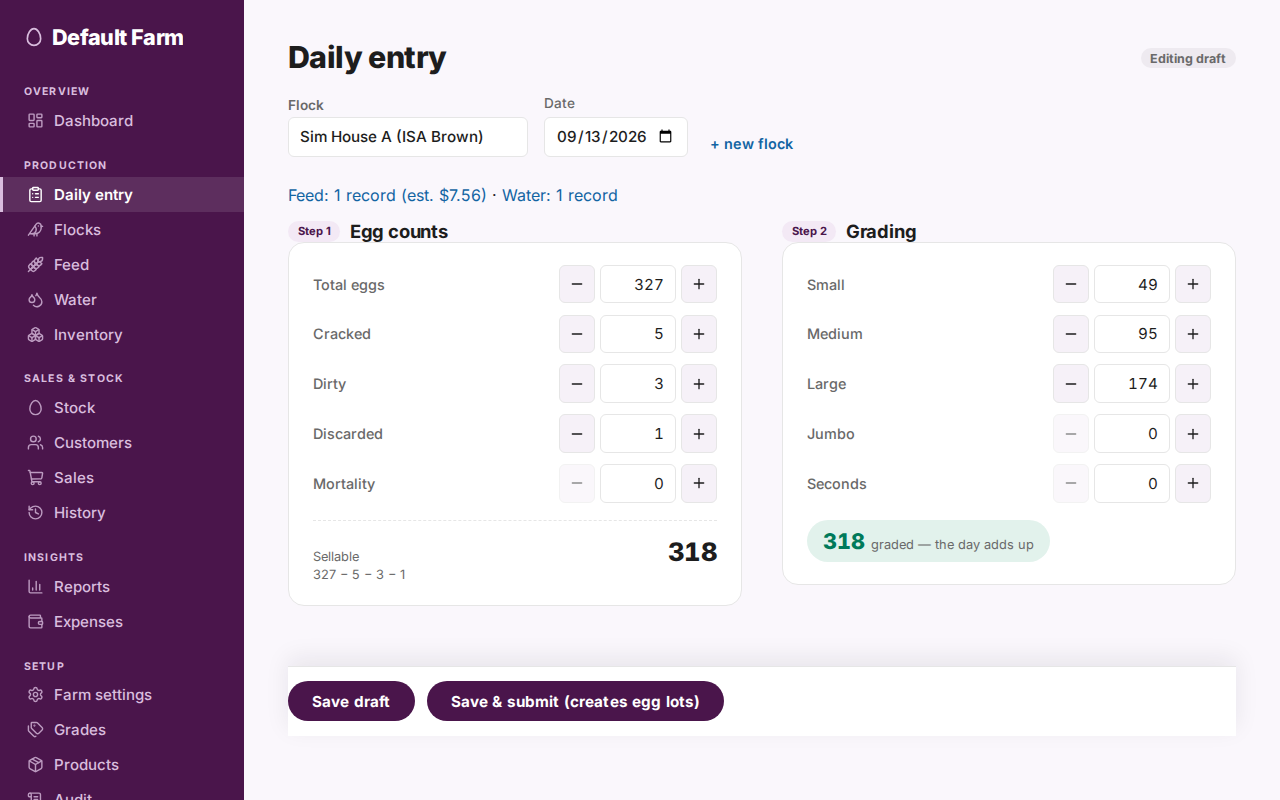
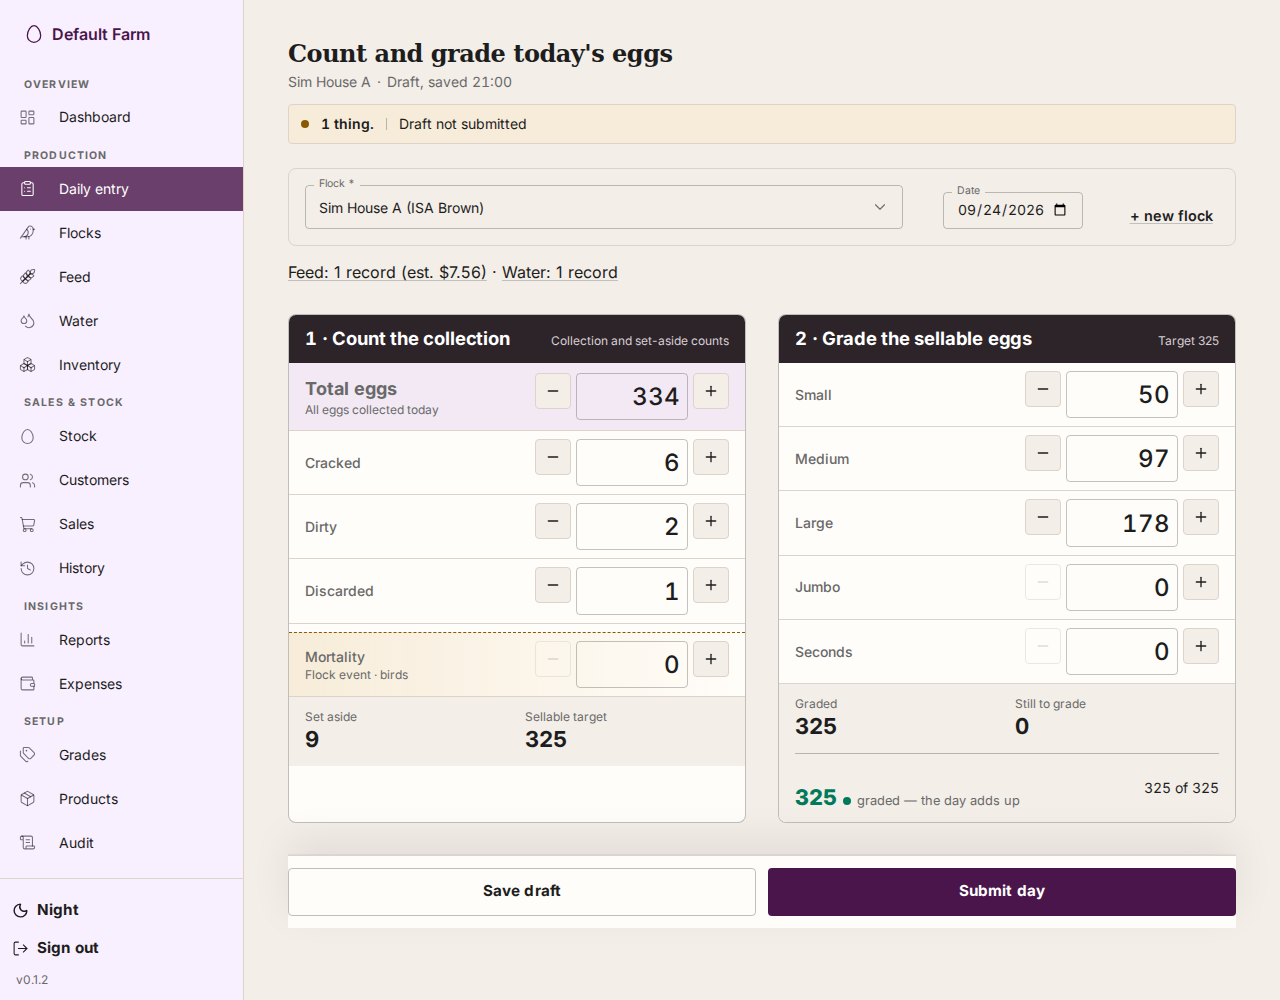
docs: recapture README screenshots after SPA revamp

diff --git a/tools/simulation/ui/playwright.screenshots.config.ts b/tools/simulation/ui/playwright.screenshots.config.ts
@@ -52,9 +52,7 @@ export default defineConfig({
   projects: [
     {
       name: "chromium",
-      // The dashboard capture runs in its own project below, at a taller
-      // frame (#660) — excluded here so this project's three images stay
-      // byte-identical to before.
+      // The dashboard uses its own taller viewport below.
       grepInvert: /dashboard — the morning view/,
       use: {
         ...devices["Desktop Chrome"],
@@ -64,18 +62,11 @@ export default defineConfig({
         // project's `use` beats the top-level one. Setting the frame above the
         // spread silently captures at the device's size instead of this one.
         //
-        // A fixed frame means a refreshed image differs from its predecessor
-        // only where the app changed. 1280x800 is the widest that still reads
-        // at GitHub's rendered README width without shrinking the type to
-        // noise.
+        // The taller frame keeps the daily entry totals and Reports money
+        // summary above the fold after the #920 recapture.
         //
-        // Scale 1, measured rather than assumed: at scale 2 the three images
-        // are 910 KB, at scale 1 they are 382 KB, and GitHub renders a README
-        // image into roughly 890 CSS pixels — so a 1280-wide capture still has
-        // ~1.4x the pixels of its slot and stays sharp on a HiDPI display.
-        // Every regeneration adds its bytes to git history permanently, which
-        // is what makes the 2.4x worth avoiding.
-        viewport: { width: 1280, height: 800 },
+        // Scale 1 keeps the committed PNGs at their CSS pixel size.
+        viewport: { width: 1280, height: 1000 },
         deviceScaleFactor: 1,
 
         launchOptions: executablePath ? { executablePath } : {},
@@ -83,25 +74,12 @@ export default defineConfig({
     },
     {
       name: "chromium-dashboard",
-      // #660: the 1280x800 frame showed only the alarm-state tile grid — the
-      // 14-day trend, stock, and recent-sales panels fell below the fold, so
-      // this capture got its own project at 1280x1180.
-      //
-      // WHAT DECIDES THAT NUMBER HAS CHANGED, and the height is no longer
-      // shrinkable to fit the content. Since the capture moved to the
-      // demo-seeded README farm, its main column ends at 700px — two tiles
-      // instead of twelve — and there is visible empty page below it. The
-      // SIDEBAR is what holds the frame open now: signed in as an Owner every
-      // destination is offered, and measured against the rendered page that
-      // column's own content ends at 1164px with the footer pinned to the
-      // viewport bottom. Anything shorter clips the navigation mid-list and
-      // overlaps it with Night/Sign out, which looks broken in a way the empty
-      // space does not. Re-measure before changing it; do not infer it from the
-      // main column.
+      // #920: Morning collection, stock, recent orders, and the Lay rate
+      // KPI all fit in this 1:1 frame after the dashboard redesign.
       grep: /dashboard — the morning view/,
       use: {
         ...devices["Desktop Chrome"],
-        viewport: { width: 1280, height: 1180 },
+        viewport: { width: 1280, height: 1300 },
         deviceScaleFactor: 1,
         launchOptions: executablePath ? { executablePath } : {},
       },

diff --git a/tools/simulation/ui/specs-screenshots/screenshots.spec.ts b/tools/simulation/ui/specs-screenshots/screenshots.spec.ts
@@ -1,6 +1,6 @@
 // tools/simulation/ui/specs-screenshots/screenshots.spec.ts — #549.
 //
-// Captures the three images the root README embeds, from the REAL built SPA
+// Captures the four images the root README embeds, from the REAL built SPA
 // over the #243 simulation fixture. Run it deliberately:
 //
 //     npm run screenshots        # from tools/simulation/ui, with the sim stack up
@@ -8,7 +8,7 @@
 // ================== THE STALENESS CONTRACT ==================
 //
 // These images are DOCUMENTATION ARTEFACTS, not test baselines, and **nothing
-// enforces that they match the current UI**. A change to any of the three
+// enforces that they match the current UI**. A change to any of the four
 // screens below silently invalidates them; a reviewer looking at a stale
 // screenshot cannot tell. The honest mitigation is the one this file can
 // actually keep: the capture is scripted, so refreshing is one command rather
@@ -203,6 +203,7 @@ test.describe("README screenshots", () => {
 
   test("reports — production and money over the seeded period", async ({ page, signIn, farm }) => {
     await signIn(castMember("Owner"));
+    await page.setViewportSize({ width: 1280, height: 1100 });
     await page.goto("/reports");
 
     // The default range ends TODAY, and the fixture's most recent days are
@@ -239,7 +240,8 @@ test.describe("README screenshots", () => {
   });
 
   test("sales — orders across their lifecycle", async ({ page, signIn }) => {
-    await signIn(castMember("Sales"));
+    await signIn(readmeFarmOwner());
+    await page.setViewportSize({ width: 1280, height: 800 });
     await page.goto("/sales");
 
     await expect(page.getByRole("heading", { name: tEn("sales:ordersHeading") })).toBeVisible();

diff --git a/README.md b/README.md
@@ -9,9 +9,15 @@ production, track egg lots from the hen through to the sale with full
 traceability, block medication-restricted lots, manage sales and customers, and
 see the numbers that matter (hen-day rate, saleable %, stock on hand).
 
-![The dashboard: today's capture-status tiles by flock, a 14-day production trend, stock on hand by grade, and recent sales orders](docs/images/dashboard.png)
+The Dashboard brings the morning brief, collection status, stock by grade,
+recent orders, and the Lay rate trend onto one screen.
 
-![The daily entry screen: egg counts and grading for one flock on one day, with the sellable total derived from them](docs/images/daily-entry.png)
+![Meadowlark Dashboard with a morning brief, collection status for two houses, stock by grade, recent orders, and a 14-day Lay rate chart](docs/images/dashboard.png)
+
+Daily entry separates collection and grading counts for one flock and day. It
+shows the sellable target and whether the graded count balances.
+
+![Daily entry for Sim House A with collection and grading counts, a sellable target, and Save draft and Submit day actions](docs/images/daily-entry.png)
 
 - **Backend:** C# / .NET 10 (ASP.NET Core minimal APIs) · **Database:** PostgreSQL (EF Core)
 - **Frontend:** React 19 + Vite (TypeScript), served by the API in production
@@ -86,20 +92,21 @@ fails: [first admin provisioning](docs/runbooks/first-admin-provisioning.md).
 
 ## More of it
 
-Sales orders through their lifecycle — draft, confirmed, with who did what and
-when against each one:
+Sales orders move from draft to confirmed. Filter by status, customer, or
+unpaid balance; each row shows the order total, outstanding amount, and a link
+to its audit history.
 
-![The sales screen: a filterable order list showing reference, date, customer, status, total, and a history column naming the user who created and confirmed each order](docs/images/sales.png)
+![Sales page with status and customer filters, an Unpaid only checkbox, and draft and confirmed orders with totals, outstanding balances, and audit history links](docs/images/sales.png)
 
-The numbers a farm actually runs on — daily production with losses split by
-cause, hen-day %, the by-grade breakdown, and the money beside it:
+Reports show daily production for a selected date range, grade totals, and a
+Money summary of revenue, expenses, and basic profit.
 
-![The reports screen: a seven-day production table with eggs, losses, sellable, condition, deaths, hen-days and hen-day percent, then a money section summarising sales and expenses](docs/images/reports.png)
+![Reports page with a seven-day production table, reported grade totals, and a Money summary of revenue, expenses, and basic profit](docs/images/reports.png)
 
-Screenshots are captured from the real built SPA over the simulation fixture —
-[`tools/simulation/ui/specs-screenshots/`](tools/simulation/ui/specs-screenshots/),
-refreshed with `npm run screenshots`. Nothing enforces that they match the
-current UI; they are refreshed deliberately.
+The Dashboard and Sales images use the demo-seeded `readme-farm`; Daily entry
+and Reports use the simulation fixture. All four come from the built SPA via
+[`tools/simulation/ui/specs-screenshots/`](tools/simulation/ui/specs-screenshots/)
+and are refreshed with `npm run screenshots`.
 
 ## Architecture
 
